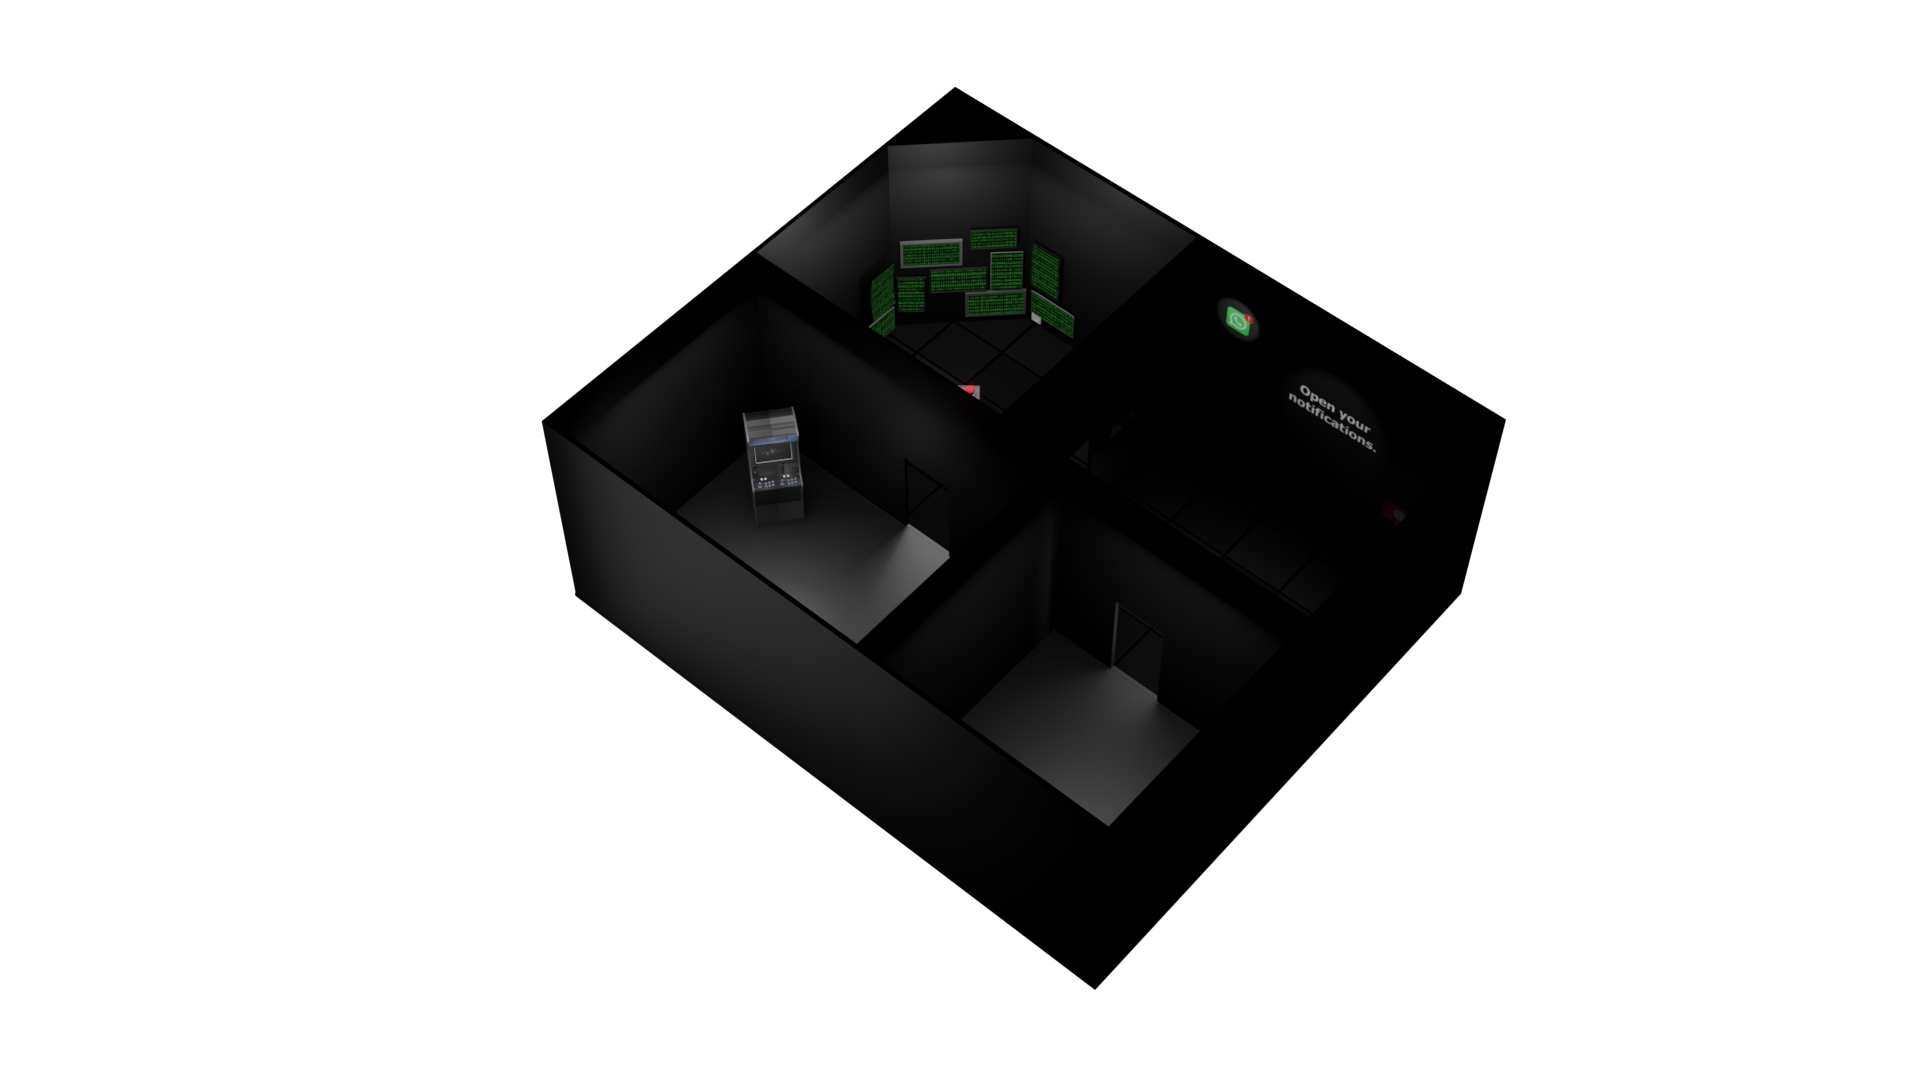
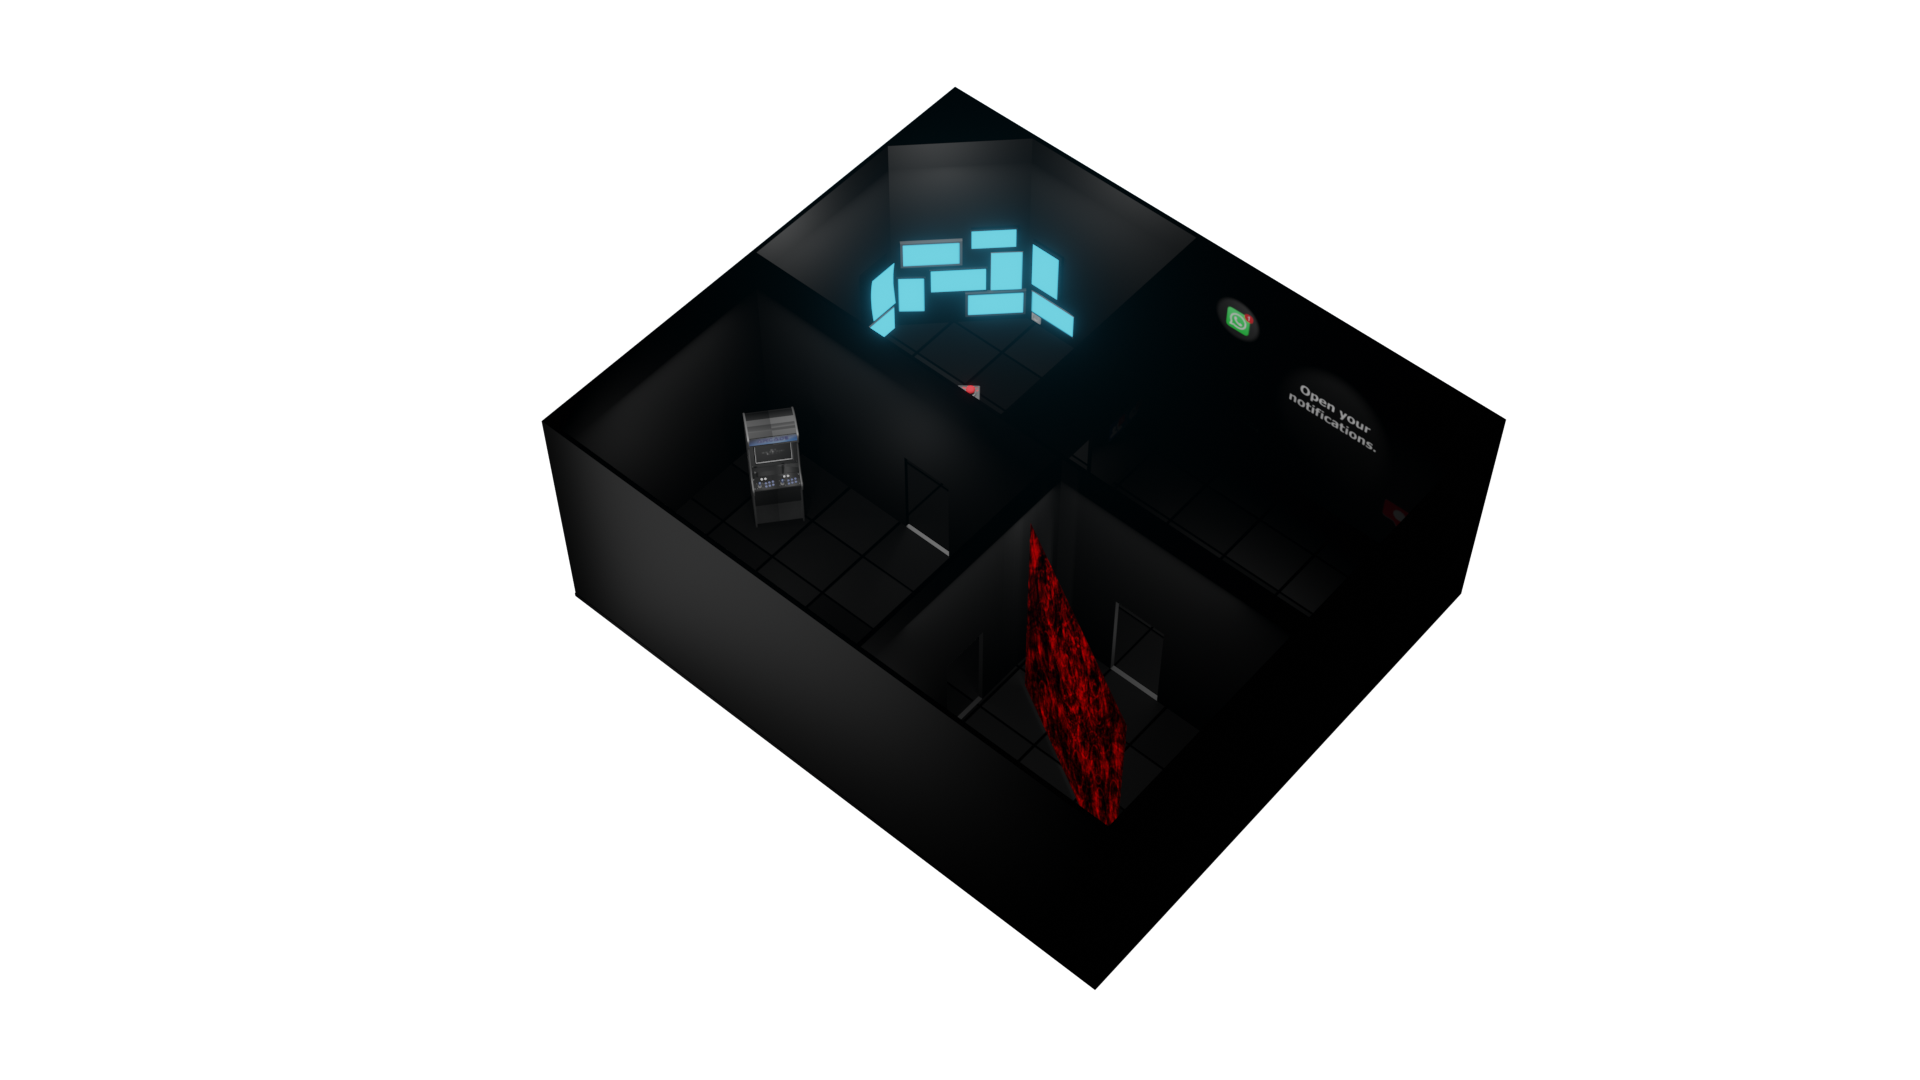
room 2

Changed region(s): [[0.4375, 0.1833, 0.5938, 0.3361], [0.5, 0.4583, 0.625, 0.7639], [0.375, 0.4889, 0.5, 0.6111]]

diff --git a/index.html b/index.html
@@ -5,7 +5,7 @@
 	<meta charset="UTF-8">
 	<meta name="viewport" content="initial-scale=1.0, user-scalable=no, width=device-width" />
 
-	<title>TITEL EINDWERK</title>
+	<title>CONTROL</title>
 
 	<link rel="stylesheet" href="css/IVB4.css">
 
@@ -38,7 +38,7 @@ iste soluta vitae ea libero placeat eum.</pre>
 
 		<img id="overview" src="assets/overview.png" alt="overview">
 		<button id="Kamer 1" class="knop k1" onclick="K1()"type="button">Snake</button>
-		<button id="Kamer 2" class="knop k2" onclick="K2()"type="button">Kamer 2</button>
+		<button id="Kamer 2" class="knop k2" onclick="K2()"type="button">Up-To-Date</button>
 		<button id="Kamer 3" class="knop k3" onclick="K3()"type="button">Running Ahead or Behind</button>
 		<button id="Kamer 4" class="knop k4" onclick="K4()"type="button">Losing Power</button>
 
@@ -59,22 +59,19 @@ iste soluta vitae ea libero placeat eum.</pre>
 
 
 		<div id="OverlayKamer1">
-			<a href="#" id="1naar4" class="left"><img src="assets/PijlLinks.png" alt="Leftarrow" width="100"
-					height="100"></a>
-			<a href="#" id="1naar2" class="right"><img src="assets/PijlRechts.png" alt="RightArrow" width="100"
-					height="100"></a>
 			<a href="#" id="1naarterug" class="top"><img src="assets/Kruis.png" alt="Back" width="60" height="60"></a>
 		</div>
 	</div>
 
-	<div id="Kamer2">
+	<div id="Kamer2" class="kamer2">
+		
+		
+		<img id="K2BG" src="assets/Kamer2BG.png" >
+		<canvas id="EC"  data-processing-sources="EC/EC.pde" width="1280"  height="720"></canvas>
+		<div onmousemove="alert(event)"></div>
 
-
+		
 		<div id="OverlayKamer2">
-			<a href="#" id="2naar1" class="left"><img src="assets/PijlLinks.png" alt="Leftarrow" width="100"
-					height="100"></a>
-			<a href="#" id="2naar3" class="right"><img src="assets/PijlRechts.png" alt="RightArrow" width="100"
-					height="100"></a>
 			<a href="#" id="2naarterug" class="top"><img src="assets/Kruis.png" alt="Back" width="60" height="60"></a>
 		</div>
 	</div>
@@ -82,7 +79,7 @@ iste soluta vitae ea libero placeat eum.</pre>
 
 	<div id="Kamer3">
 
-]
+				<img id="Leeg" src="assets/meldingen/Niks.png" >
 				<img id="Comment" class="K3Image" src="assets/meldingen/Comment.png" alt="Comment">
 				<img id="Facebook1" class="K3Image" src="assets/meldingen/Facebook1.png" alt="Facebook1">
 				<img id="Facebook2" class="K3Image" src="assets/meldingen/Facebook2.png" alt="Facebook2">
@@ -92,6 +89,7 @@ iste soluta vitae ea libero placeat eum.</pre>
 				<img id="News" class="K3Image" src="assets/meldingen/News.png" alt="News">
 				<img id="Phone" class="K3Image" src="assets/meldingen/Phone.png" alt="Phone">
 				<img id="Whatsapp" class="K3Image" src="assets/meldingen/Whatsapp.png" alt="Whatsapp">
+				
 
 				<button id="CommentBOX" class="verstoptK3 CommentBOX" >KNOP</button>
 				<button id="Facebook1BOX" class="verstoptK3 Facebook1BOX" >KNOP</button>
@@ -106,10 +104,6 @@ iste soluta vitae ea libero placeat eum.</pre>
 
 
 		<div id="OverlayKamer3">
-			<a href="#" id="3naar2" class="left"><img src="assets/PijlLinks.png" alt="Leftarrow" width="100"
-					height="100"></a>
-			<a href="#" id="3naar4" class="right"><img src="assets/PijlRechts.png" alt="RightArrow" width="100"
-					height="100"></a>
 			<a href="#" id="3naarterug" class="top"><img src="assets/Kruis.png" alt="Back" width="60" height="60"></a>
 		</div>
 	</div>
@@ -126,10 +120,6 @@ iste soluta vitae ea libero placeat eum.</pre>
 		<button id="Stopcontact" class="verstopt ST" onclick="Stopcontact()" type="button">KNOP</button>
 		
 		<div id="OverlayKamer4">
-			<a href="#" id="4naar3" class="left"><img src="assets/PijlLinks.png" alt="Leftarrow" width="100"
-					height="100"></a>
-			<a href="#" id="4naar1" class="right"><img src="assets/PijlRechts.png" alt="RightArrow" width="100"
-					height="100"></a>
 			<a href="#" id="4naarterug" class="top"><img src="assets/Kruis.png" alt="Back" width="60" height="60"></a>
 		</div>
 

diff --git a/js/IVB4.js b/js/IVB4.js
@@ -4,6 +4,7 @@ var room = 0;
 var SC = 0;
 var RandomK3 = 8;
 var endvid = 0;
+var keer = 0;
 
 
 
@@ -25,7 +26,7 @@ $(document).ready(function () {
 		//round down the time to get a whole number
 		var time = video.currentTime.toFixed(1);
 		time = Number(time);
-		console.log(video.currentTime, time);
+		//console.log(video.currentTime, time);
 
 
 
@@ -126,7 +127,7 @@ $(document).ready(function () {
 		if (room === 3) {
 			Kamer3();
 
-
+			
 
 
 			//terug van kamer 3 naar hoofdmenu
@@ -248,6 +249,15 @@ $(document).ready(function () {
 
 		//Kamer 2
 		function Kamer2() {
+			document.getElementById("EC").onmousemove = function(event) {keer1(event)};
+			function keer1(){
+				if(keer == 0)
+				{
+					alert("Use your mouse, press some keys, press enter and have some fun!");
+					keer = 1
+				}
+			}
+
 
 
 

diff --git a/css/IVB4.css b/css/IVB4.css
@@ -196,6 +196,14 @@ color: white;
 	height: auto;	
 }
 
+#EC{
+	position: fixed;
+	width: 50%;
+	height: auto;
+	top: 25%;
+	left: 25%;	
+}
+
 .snake{
 	position: absolute;
 	width: 18%;
@@ -214,7 +222,7 @@ color: white;
 
 .k4{
 	position: absolute;
-	left: 45% ;
+	left: 46% ;
 	top: 23%;
 }
 
@@ -232,9 +240,13 @@ color: white;
 
 .k1{
 	position: absolute;
-	left: 40%;
-	top: 43%;
+	left: 42%;
+	top: 46%;
 	
+}
+
+.kamer2{
+	background: black;
 }
 
 h1{
@@ -278,6 +290,18 @@ body{
 
 .K3Image{
 	position: absolute;
+	width: 100%;
+	height: auto;
+}
+
+#Leeg{
+	position: absolute;
+	width: 100%;
+	height: auto;
+}
+
+#K2BG{
+	position: fixed;
 	width: 100%;
 	height: auto;
 }
